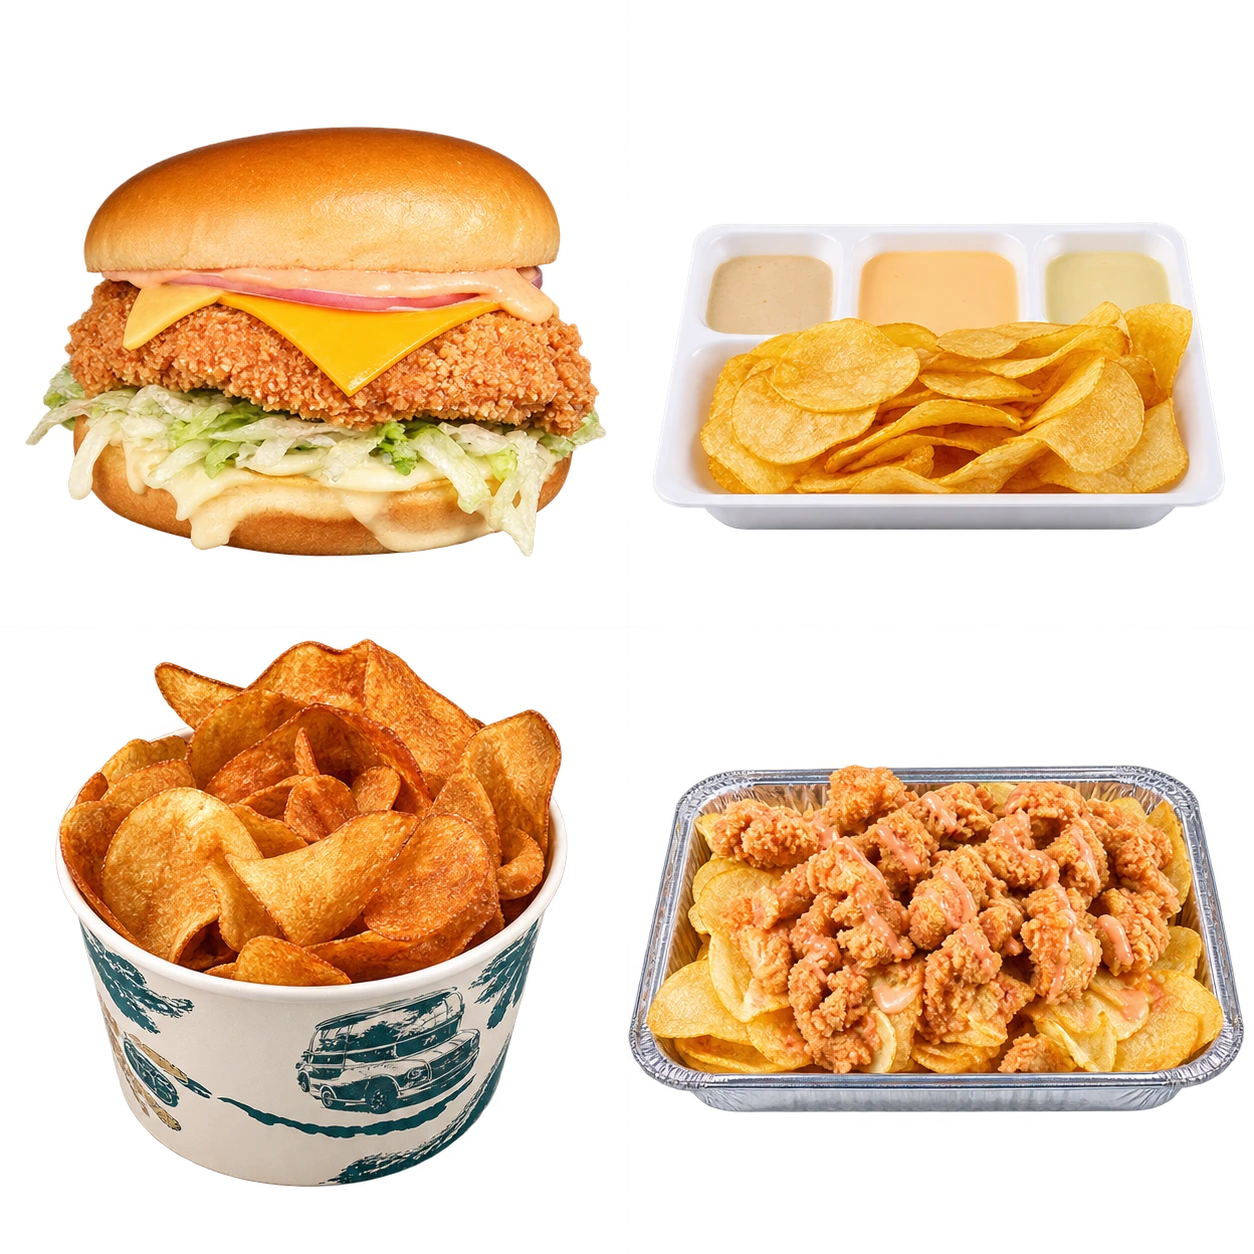
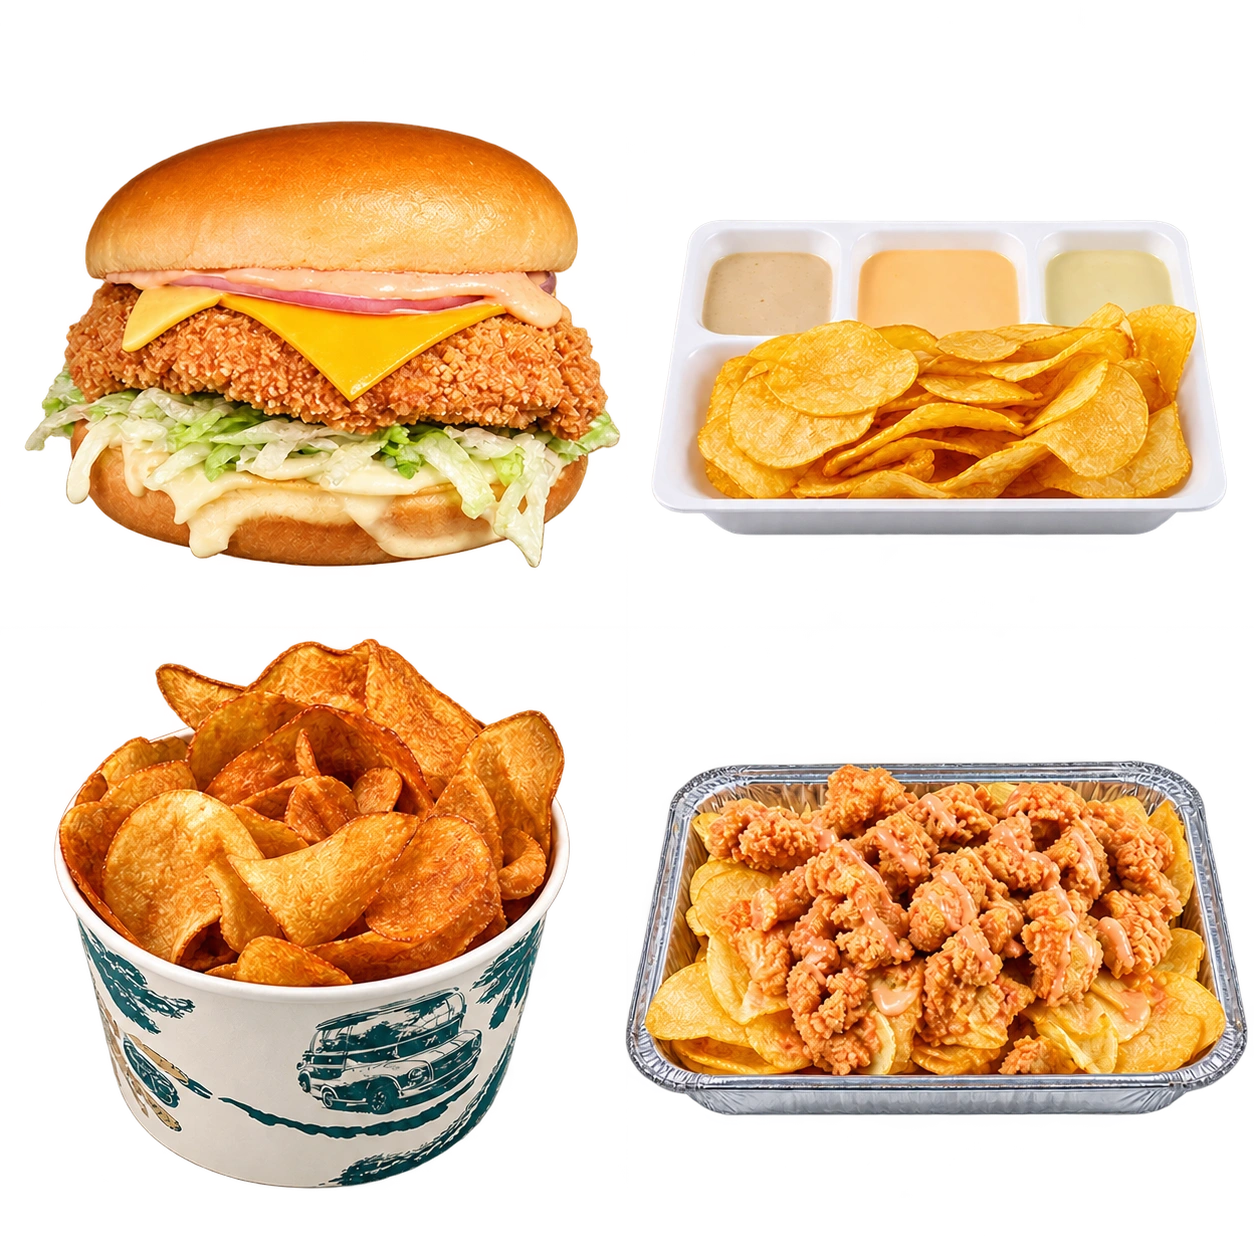
Clean product images and replace chips poster crop with isolated tray

diff --git a/index.html b/index.html
@@ -6,7 +6,7 @@
 <title>مزمز | محطة لازم توقف عندها</title>
 <link rel="icon" href="assets/brand.jpg"><link rel="preconnect" href="https://fonts.googleapis.com"><link rel="preconnect" href="https://fonts.gstatic.com" crossorigin>
 <link href="https://fonts.googleapis.com/css2?family=Baloo+Bhaijaan+2:wght@400;500;600;700;800&family=DM+Sans:wght@400;500;600;700;800&display=swap" rel="stylesheet">
-<link rel="stylesheet" href="style.css?v=20261007-takis-bucket"><script src="app.js?v=20261007-takis-bucket" defer></script>
+<link rel="stylesheet" href="style.css?v=20261007-clean-products"><script src="app.js?v=20261007-clean-products" defer></script>
 </head>
 <body>
 <a class="skip" href="#menu" data-ar="انتقل إلى المنيو" data-en="Skip to menu">انتقل إلى المنيو</a>
@@ -42,7 +42,7 @@
 <p class="meal-note" data-ar="الوجبة تشمل ساندويش + بطاطا + مشروب غازي. الأسعار بالدينار الأردني." data-en="Sandwich meals include fries and a soft drink. All prices are in Jordanian dinars.">الوجبة تشمل ساندويش + بطاطا + مشروب غازي. الأسعار بالدينار الأردني.</p>
 <div id="menu-grid" class="menu-grid" aria-live="polite"></div><p id="empty" hidden data-ar="ما لقينا هالصنف. جرّب اسم ثاني أو اختار الكل." data-en="No matches. Try another name or choose All.">ما لقينا هالصنف. جرّب اسم ثاني أو اختار الكل.</p>
 </section>
-<section class="flavour-section section"><div class="flavour-copy"><p class="eyebrow" data-ar="القرمشة إلها ناسها" data-en="FOR THE CRUNCH LOVERS">القرمشة إلها ناسها</p><h2 data-ar="شيبس… مش أي شيبس." data-en="Chips. With a twist.">شيبس… مش أي شيبس.</h2><p data-ar="بطاطا طبيعية، جبنة وصوصاتك المفضلة. اختار النكهة وخلي المزمزة علينا." data-en="Natural potato chips, cheese and your favourite sauces. Pick your flavour and get crunching.">بطاطا طبيعية، جبنة وصوصاتك المفضلة. اختار النكهة وخلي المزمزة علينا.</p><div id="flavours" class="flavours" role="group" aria-label="Chip flavours"></div><p id="flavour-description" aria-live="polite"></p></div><div class="chips-art"><svg viewBox="150 830 980 540" role="img" aria-label="مزمز شيبس مع الصوصات"><image href="assets/chips.jpg" width="1407" height="1760"/></svg><span class="round-label" data-ar="قرمشة\nعلى الأصول" data-en="FRESH\nCRUNCH">قرمشة<br>على الأصول</span></div></section>
+<section class="flavour-section section"><div class="flavour-copy"><p class="eyebrow" data-ar="القرمشة إلها ناسها" data-en="FOR THE CRUNCH LOVERS">القرمشة إلها ناسها</p><h2 data-ar="شيبس… مش أي شيبس." data-en="Chips. With a twist.">شيبس… مش أي شيبس.</h2><p data-ar="بطاطا طبيعية، جبنة وصوصاتك المفضلة. اختار النكهة وخلي المزمزة علينا." data-en="Natural potato chips, cheese and your favourite sauces. Pick your flavour and get crunching.">بطاطا طبيعية، جبنة وصوصاتك المفضلة. اختار النكهة وخلي المزمزة علينا.</p><div id="flavours" class="flavours" role="group" aria-label="Chip flavours"></div><p id="flavour-description" aria-live="polite"></p></div><div class="chips-art"><svg viewBox="516 4 504 504" role="img" aria-label="مزمز شيبس مع الصوصات"><image href="assets/extras-hd.webp" width="1024" height="1024"/></svg><span class="round-label" data-ar="قرمشة\nعلى الأصول" data-en="FRESH\nCRUNCH">قرمشة<br>على الأصول</span></div></section>
 <section id="visit" class="section visit-section paper"><div class="visit-art"><img src="assets/map-art.jpg" alt="رسم إرشادي لموقع مزمز في وسط البلد" loading="lazy" width="640" height="1138"></div><div class="visit-copy"><p class="eyebrow" data-ar="طشتك الجايّة عنا" data-en="YOUR NEXT DOWNTOWN STOP">طشتك الجايّة عنا</p><h2 data-ar="ميل علينا يا غالي" data-en="Come on over.">ميل علينا يا غالي</h2><p class="address" data-ar="عمّان، وسط البلد — شارع سوق الذهب" data-en="Gold Souk Street, Downtown Amman">عمّان، وسط البلد — شارع سوق الذهب</p><div class="visit-links"><a class="btn yellow" href="https://maps.app.goo.gl/1GzGsH1aQZmYkQis6?g_st=ac" target="_blank" rel="noopener"><span data-ar="موقع المطعم" data-en="Restaurant directions">موقع المطعم</span> ↗</a><a class="btn light" href="https://maps.app.goo.gl/khNb3M5Xykxi6mWMA?g_st=ac" target="_blank" rel="noopener"><span data-ar="جاي بسيارتك؟ مكان الاصطفاف" data-en="Driving? Find parking">جاي بسيارتك؟ مكان الاصطفاف</span> ↗</a></div><div class="hours"><h3 data-ar="أوقات الدوام" data-en="Opening hours">أوقات الدوام</h3><p><span data-ar="الدوام المعتاد" data-en="Regular hours">الدوام المعتاد</span><b data-ar="11 صباحًا — 12 ليلًا" data-en="11 AM — midnight">11 صباحًا — 12 ليلًا</b></p><p><span data-ar="عالويكند" data-en="Weekends">عالويكند</span><b data-ar="معكم للساعة 1 ليلًا" data-en="Open until 1 AM">معكم للساعة 1 ليلًا</b></p></div><a class="phone" href="tel:+962792958066"><span data-ar="رن علينا" data-en="Give us a call">رن علينا</span><b dir="ltr">+962 79 295 8066</b> ↗</a></div></section>
 <section class="review-section section"><div><h2 data-ar="كيف كانت المزمزة؟" data-en="How was your MZMZ stop?">كيف كانت المزمزة؟</h2><p data-ar="رأيك بهمّنا. احكيلنا عن تجربتك على Google." data-en="We'd love to hear about your visit. Leave your review on Google.">رأيك بهمّنا. احكيلنا عن تجربتك على Google.</p></div><a class="btn navy" href="https://search.google.com/local/writereview?placeid=ChIJUQv2_d9fGxURoTTjU7AlyJw" target="_blank" rel="noopener" data-ar="اكتب تقييمك ↗" data-en="Leave a review ↗">اكتب تقييمك ↗</a></section>
 </main>

diff --git a/app.js b/app.js
@@ -12,7 +12,7 @@ const menu=[
  {ar:'الدينامو',en:'Dynamo',cat:'sandwich',price:3,meal:4,desc:['دجاج مقرمش، صوص الدينامو وحلقات بصل.','Crispy chicken, Dynamo sauce and onion rings.'],img:'sides-hd',crop:'516 4 504 504'},
  {ar:'مزموزيل',en:'Mazmozeel',cat:'sandwich',price:2.5,meal:3.5,desc:['دجاج، موزاريلا ستيكس، شيدر، سويس وهالبينو.','Chicken, mozzarella sticks, cheddar, Swiss cheese and jalapeños.'],img:'sandwiches-hd',crop:'580 600 400 345'},
  {ar:'مزمز شيبس',en:'MZMZ Chips',cat:'chips',price:2.5,desc:['شيبس طبيعي مقرمش، جبنة وصوصات مزمز الخاصة.','Crispy natural potato chips, cheese and MZMZ sauces.'],img:'extras-hd',crop:'516 4 504 504'},
- {ar:'تاكيز أزرق',en:'Blue Takis',cat:'chips',price:2.5,desc:['نكهة حارة وحامضة.','A spicy, tangy flavour.'],img:'flavors-b',crop:'122 788 260 290'},
+ {ar:'تاكيز أزرق',en:'Blue Takis',cat:'chips',price:2.5,desc:['نكهة حارة وحامضة.','A spicy, tangy flavour.'],img:'takis-bucket-hd',crop:null},
  {ar:'سطل شيبس',en:'Chips Bucket',cat:'chips',price:2.5,desc:['شيبس طبيعي مقرمش بنكهات متعددة، جبنة وصوصات.','A bucket of natural potato chips with flavour options, cheese and sauces.'],img:'extras-hd',crop:'4 516 504 504'},
  {ar:'تندر فينغرز',en:'Tender Fingers',cat:'sides',price:1.5,desc:['ثلاث قطع دجاج مقرمش مع صوص الجبنة المميز.','Three crispy chicken tenders with signature cheese sauce.'],img:'sides-hd',crop:'4 516 504 504'},
  {ar:'بونلس بون بون',en:'Boneless Bon Bon',cat:'sides',price:2,desc:['10 قطع بونلس مع صوصات مزمز.','Ten boneless chicken bites with MZMZ sauces.'],img:'sides-hd',crop:'516 516 504 504'},
@@ -79,7 +79,7 @@ function openPhoto(name,caption,crop=''){
   svg.setAttribute('preserveAspectRatio','xMidYMid meet');
   const [, , width,height]=crop.split(' ').map(Number);
   svg.style.aspectRatio=`${width} / ${height}`;
-  svg.style.width=`min(100%, ${72*width/height}vh)`;
+  svg.style.width=`min(100%, ${72*width/height}vh, ${name.endsWith('-hd')?620:width}px)`;
  }else{product.replaceChildren();image.src=photoUrl(name);image.alt=caption}
  $('#dialog-caption').textContent=caption;dialog.showModal();document.body.style.overflow='hidden';
 }

diff --git a/style.css b/style.css
@@ -25,3 +25,8 @@
 .food-visual svg:has(image[href$="-hd.webp"]){aspect-ratio:1}
 .combo-img .product-photo{background:radial-gradient(ellipse at center,#31999d,var(--navy));object-fit:contain}
 @media(max-width:680px){.combo-img .product-photo{height:100%;aspect-ratio:auto;min-height:240px}}
+
+[data-photo="takis-bucket-hd"] .product-photo{padding:14px;background:radial-gradient(ellipse at center,#31999d,var(--navy))}
+#dialog-image[src$="takis-bucket-hd.webp"]{padding:12px;background:var(--navy);border-radius:12px}
+
+.chips-art svg{display:block;width:100%;background:var(--navy);padding:16px}
